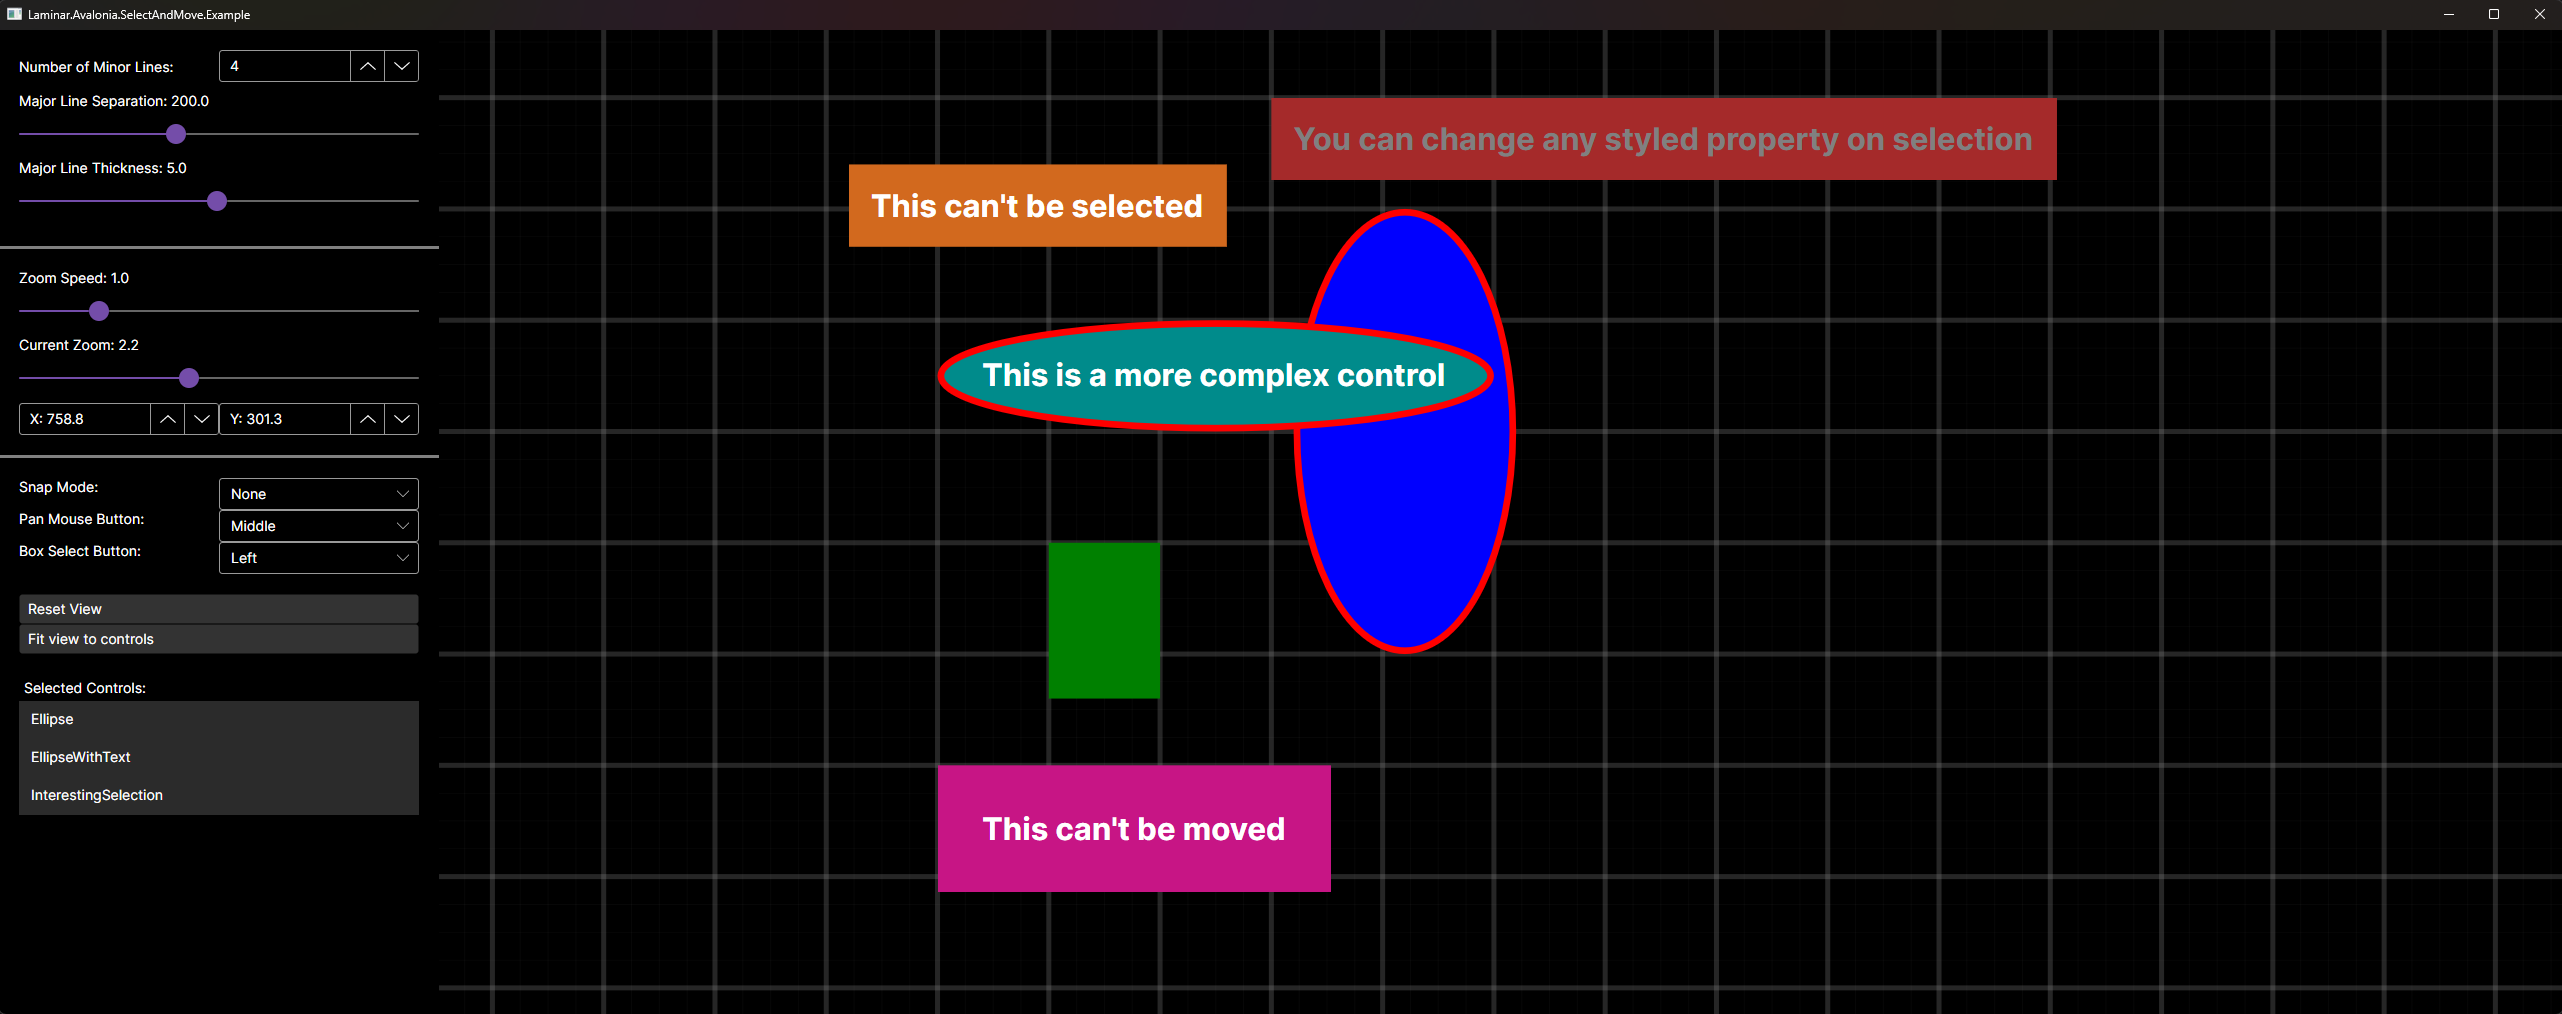
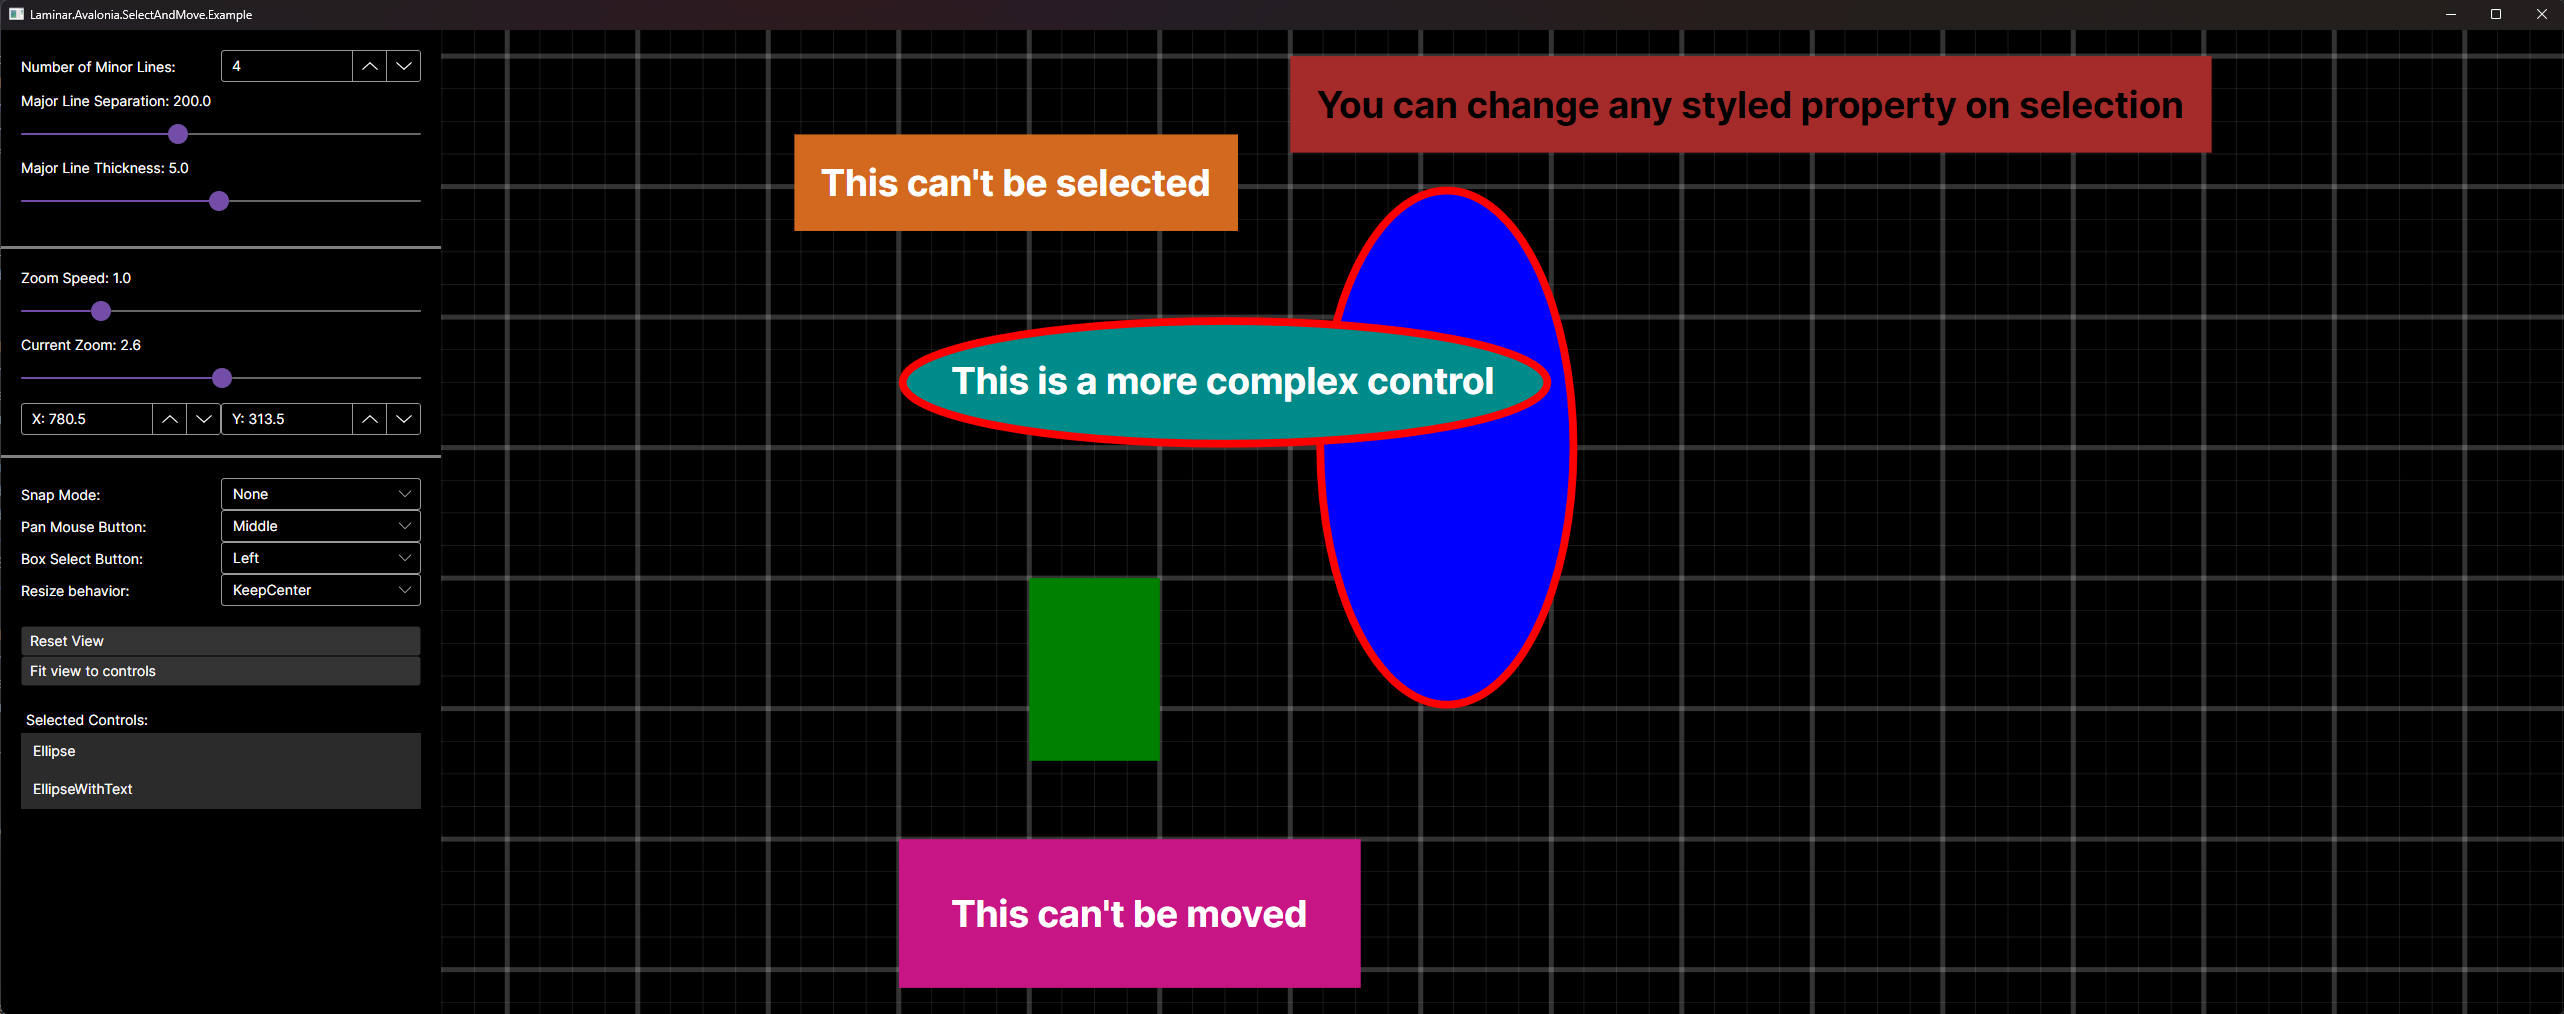
Updates the examples and README.md

diff --git a/examples/Laminar.Avalonia.SelectAndMove.Example/MainWindow.axaml.cs b/examples/Laminar.Avalonia.SelectAndMove.Example/MainWindow.axaml.cs
@@ -5,9 +5,11 @@ using Avalonia.Input;
 namespace Laminar.Avalonia.SelectAndMove.Example;
 public partial class MainWindow : Window
 {
-    public static readonly SnapMode[] AllSnapModes = (SnapMode[])Enum.GetValues(typeof(SnapMode));
+    public static readonly SnapMode[] AllSnapModes = Enum.GetValues<SnapMode>();
 
-    public static readonly MouseButton[] AllMouseButtons = (MouseButton[])Enum.GetValues(typeof(MouseButton));
+    public static readonly MouseButton[] AllMouseButtons = Enum.GetValues<MouseButton>();
+    
+    public static readonly ResizeBehavior[] AllResizeBehaviors = Enum.GetValues<ResizeBehavior>();
     
     public MainWindow()
     {

diff --git a/README.md b/README.md
@@ -2,13 +2,28 @@
 
 SelectAndMove is a lightweight, modular Avalonia control for selecting and moving controls. 
 
+## Provided Examples
+
+### Customisation of SelectAndMove behavior
+There are two [examples](examples) provided in SelectAndMove, the first is a range of controls added directly via the xaml and the Items collection. This example has no code behind or data context, and exposes several controls that are bound directly to the various properties of SelectAndMove
 ![Example Screenshot](./Images/Example_Screenshot.png "An example of some controls in the SelectAndMove environment")
 [See source code for this example](examples/Laminar.Avalonia.SelectAndMove.Example/MainWindow.axaml)
 
+### MVVM Bindings
+The second example is a more practical use, where the items are set via the ItemsSource property, which targets a list of item models on the view model, and uses a data template for those items. Selecting, adding, and deleting items all get redirected via the view model.
+![MVVM Example Screenshot](./Images/MVVM_Example_Screenshot.png "Another example of SelectAndMove, in this example the item source and selection is bound to a view model")
+[See source code for this example](examples/Laminar.Avalonia.SelectAndMove.MvvmExample/MainWindow.axaml)
 ## Implementation Details
-The core SelectAndMove class is a Canvas with several GestureRecognisers that manage the select, move, and box select gestures. These gestures can go on any control and operate on a selection scope system, but move requires a canvas. This also allows for functionality to be easily extended by adding additional GestureRecognizers. Pan and zoom functionality are managed through the RenderTransform of the ItemsPanelRoot, and are exposed through pointer interaction as well as ViewZoom, ViewTranslateX, and ViewTranslateY properties.
+SelectAndMove is an ItemsControl with custom pan, zoom, select, move, and marquee select functionality. The template for SelectAndMove depends on Panel#PART_TransformRoot, which is the visual that is transformed when the ViewZoom, ViewTranslateX, and ViewTranslateY properties are changed.
 
-Also provided is a BackgroundGridLines class which is designed to be added as a child to the SelectAndMove canvas. It adds grid lines that automatically adjusts to the current zoom level, and provides a "SnapGrid" property that can be bound to the SelectAndMove canvas to snap controls to the grid lines (shown in the [example](examples/Laminar.Avalonia.SelectAndMove.Example/MainWindow.axaml))
+Selection and marquee selection are gestures that work within a custom selection system that be applied to any control. These scopes are an independent system from the SelectAndMove class; any controls in the logical tree can define themselves as SelectionScopes and any control can be selected.
+
+Move is also a gesture, but it specifically sets the Canvas.Left and Canvas.Top properties of the selected elements.
+
+[BackgroundGridLines.cs](src/Laminar.Avalonia.SelectAndMove/BackgroundGridLines.cs) is a self-contained control whose visual depends on its RenderTransform with respect to a specified visual ancestor (by default its TemplatedParent, or its logical parent if its TemplatedParent doesn't exist). In the context of SelectAndMove, it provides gridlines that automatically adapt to the current zoom level and that the move gesture can snap to.
+
+## Remarks
+A SelectingItemsControl may be more appropriate for a future version, but the base functionality of that class would need changing a lot to work within this system. 
 
 Thanks to the [PanAndZoom](https://github.com/wieslawsoltes/PanAndZoom) for name and code inspiration. If all you need is the Pan and Zoom functionality, PanAndZoom may be easier to use.
 